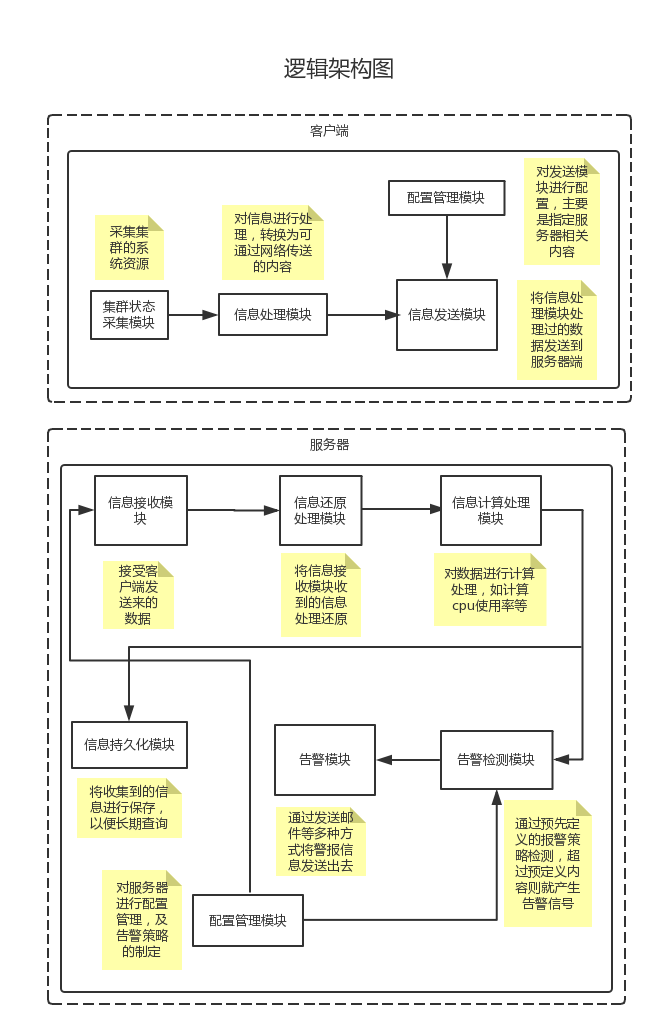
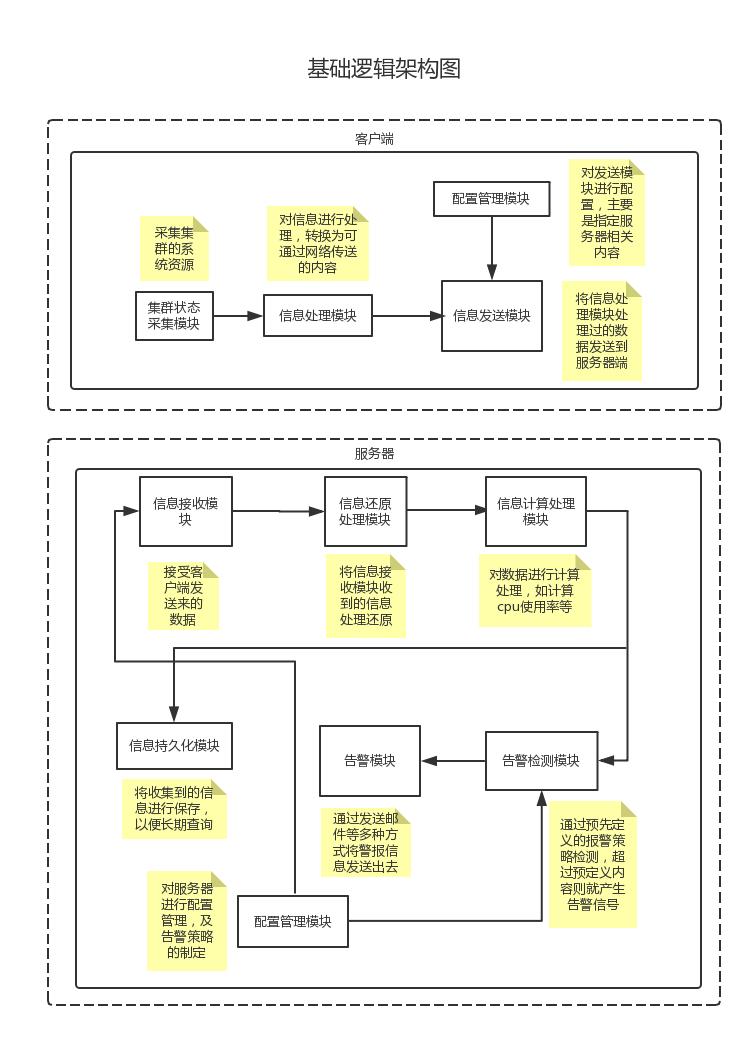
逻辑架构图

Changed region(s): [[0.0603, 0.0927, 0.9653, 0.9884], [0.3922, 0.0309, 0.6033, 0.1544]]

diff --git a/README.md b/README.md
@@ -13,7 +13,7 @@
 ## 网络拓扑结构图(1.0)：
 ![网络拓扑图](https://github.com/dreamer2018/SystemMonitor/blob/master/Document/%E7%BD%91%E7%BB%9C%E6%8B%93%E6%89%91%E6%9E%B6%E6%9E%84-1.0%E7%89%88.png)
 
-## 逻辑架构图：
+## 逻辑架构图(1.0)：
 ![逻辑架构图](https://github.com/dreamer2018/SystemMonitor/blob/master/Document/%E9%80%BB%E8%BE%91%E6%9E%B6%E6%9E%84%E5%9B%BE-1.0.png)
 
 
